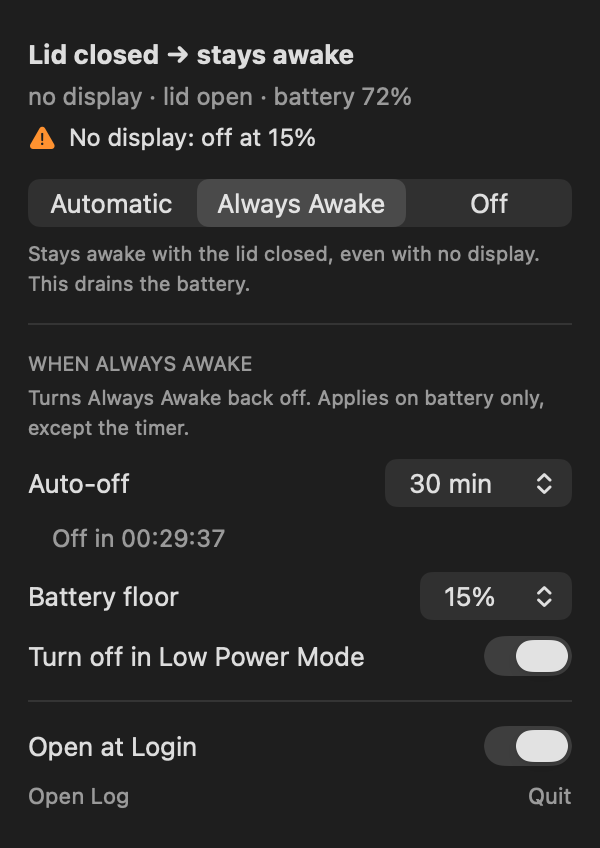
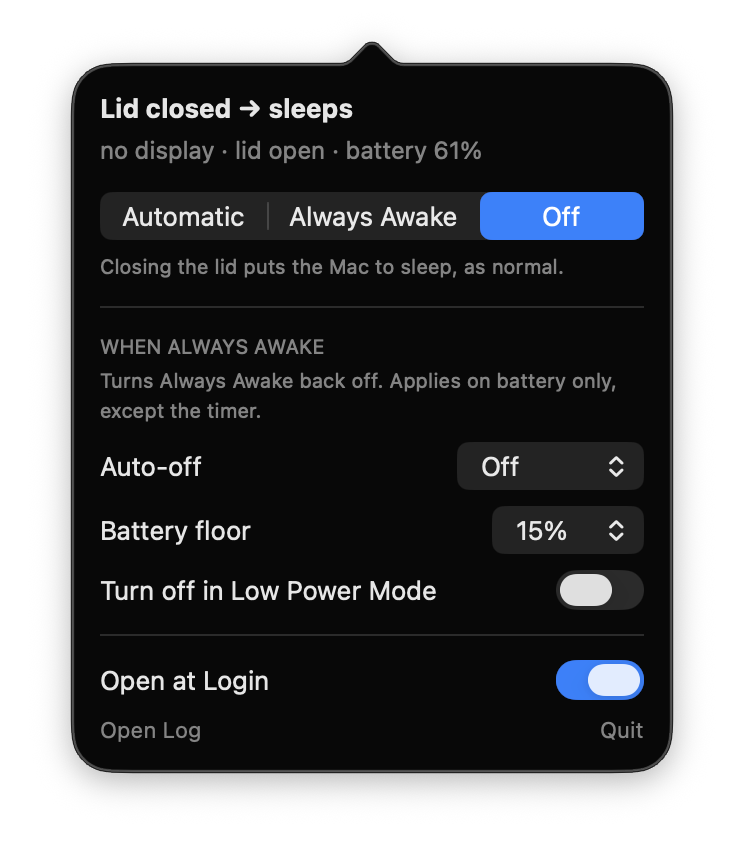
Use a real screenshot for the dark panel image
The preview renders from an inactive offscreen window, so its switches
and selected segment came out grey. The real panel shows the accent
color. The alt text now describes the panel in general, since the light
image still shows a different state until it is replaced too.

diff --git a/README.md b/README.md
@@ -16,7 +16,7 @@ in a bag still sleeps like it always did.
 <p align="center">
   <picture>
     <source media="(prefers-color-scheme: dark)" srcset="docs/images/panel-dark.png">
-    <img src="docs/images/panel-light.png" width="300" alt="The Clamshell panel: Always Awake is on, the battery is at 72%, auto-off is set to 30 minutes with 29 minutes left, and the battery floor is 15%.">
+    <img src="docs/images/panel-light.png" width="300" alt="The Clamshell panel: the mode picker (Automatic, Always Awake, Off), the auto-off timer, the battery floor, the Low Power Mode switch, and Open at Login.">
   </picture>
 </p>
 
